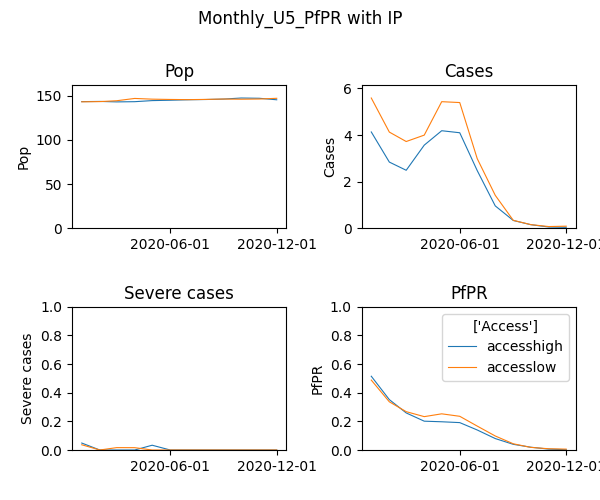
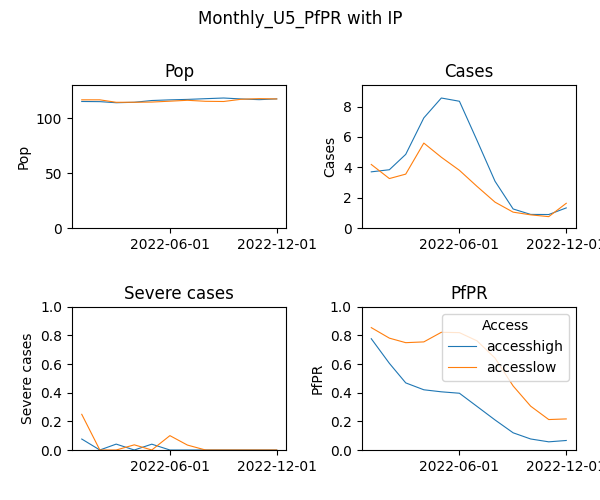
Week 8 readme and result figure updates

diff --git a/README.md b/README.md
@@ -1004,12 +1004,12 @@ EMOD How To's:
 
 ### Instructions
 
+#### PART I: Add IP's to demographics file
+
 <details><summary><span>Click here to expand</span></summary>
 <p>
 
-
-#### Add IP's to demographics
-- First, a new demographics file needs to be generated that defines individual properties.
+- A new demographics file needs to be generated that defines individual properties.
 - Modify  `python generate_input_files.py` as instructed below:
   - add a function that takes existing demographics json file and add individual properties to it
     in this example, we group individuals into a high and a low access group.
@@ -1050,24 +1050,44 @@ EMOD How To's:
     ```
 - Run `python generate_input_files.py` to generate the new demographics json file `Ghana_demographics_wIP.json`, and inspect the file to check whether the IP's were successfully added.
   - Optional, do the same for the Ghana demographics    
-  
-#### Modify the simulation scripts
-- Just having the IPs included in the demographics won't have any effect on the simulation if interventions or campaigns do not distinguish individuals by their properties!
-- Copy and rename both simulation scripts from the previous week, from week 7 to week 8, in addition a couple of modifications are required as instructed below:
-- __In both simulation scripts (burnin + pickup):__
+- Copy and rename both simulation scripts from week 7 to `run_exampleSim_w8a.py` and `run_exampleSim_w8b.py`
+- __In both simulation scripts:__
   - set `Disable_IP_Whitelist` to 1 (if not already set at 1)
     ```py
     cb.update_params({'Disable_IP_Whitelist' : 1})
     ```
-    _Reminder, you can look into the config.json file to see the default parameters and their values_
-  - update the demographics filename in `cb.update_params({
+  - Update the demographics filename in `cb.update_params({
     'Demographics_Filenames': [os.path.join('Namawala', 'Namawala_single_node_demographics.json')],` to read in `Namawala_single_node_demographics_wIP.json`
-  - Change exp_name to week 8 to keep track of simulations + weeks
-- __In burnin script__:
-  - No additional changes, you can already submit it to run 
+  - Change `exp_name` to week 8 to keep track of simulations + weeks
+- Submit burnin experiment to run
 
-#### Modify the intervention and intervention coverages 
-- __In pickup script__:
+<details><summary><span>Check results</span></summary>
+<p>
+
+
+The new demographics file should include the text chunk shown below:
+
+
+![img](static/w8_IP_demographics_chunk.png)
+
+
+</p>
+</details>
+
+
+</p>
+</details>
+
+
+
+#### PART II: Account for IP's in intervention and reports
+
+<details><summary><span>Click here to expand</span></summary>
+<p>
+
+_Note: Having the IPs included in the demographics won't have any effect on the simulation if interventions or campaigns do not distinguish individuals by their properties._
+
+- Modify the `run_exampleSim_w8b.py` script:
   - Add a helper function to re-calculate coverage depending on access group
   - Modify the interventions (i.e.add_ITN) to customize coverage levels for low versus high access groups.
     - duplicate the `add_ITN` within the def `itn_intervention` function
@@ -1118,75 +1138,75 @@ EMOD How To's:
     ```
     </p>
     </details>
-  - add case management (see Week 3 for adding interventions)  
-    <details><summary><span>view modified case_management function</span></summary>
-    <p>
+    - add case management (see Week 3 for adding interventions)  
+      <details><summary><span>view modified case_management function</span></summary>
+      <p>
     
-    ```py
-    def case_management(cb, cm_cov_U5=0.7, cm_cov_adults=0.5, cm_cov_severe=0.85):
-        ## Assume high access group = 0.5 of total population
-        if cm_cov_U5 > 0.5:
-            cm_cov_U5_high = 1
-            cm_cov_U5_low = (cm_cov_U5 - 0.5) / (1 - 0.5)
-        else:
-            cm_cov_U5_low = 0
-            cm_cov_U5_high = cm_cov_U5 / 0.5
-        ## Optionally, depending on assumptions, do same for cm_cov_adults and cm_cov_severe
+      ```py
+      def case_management(cb, cm_cov_U5=0.7, cm_cov_adults=0.5, cm_cov_severe=0.85):
+          ## Assume high access group = 0.5 of total population
+          if cm_cov_U5 > 0.5:
+              cm_cov_U5_high = 1
+              cm_cov_U5_low = (cm_cov_U5 - 0.5) / (1 - 0.5)
+          else:
+              cm_cov_U5_low = 0
+              cm_cov_U5_high = cm_cov_U5 / 0.5
+          ## Optionally, depending on assumptions, do same for cm_cov_adults and cm_cov_severe
     
-        add_health_seeking(cb, start_day=0,
-                           targets=[{'trigger': 'NewClinicalCase', 'coverage': cm_cov_U5_low,
-                                     'agemin': 0, 'agemax': 5, 'seek': 1, 'rate': 0.3},
-                                    {'trigger': 'NewClinicalCase', 'coverage': cm_cov_adults,
-                                     'agemin': 5, 'agemax': 100, 'seek': 1, 'rate': 0.3},
-                                    {'trigger': 'NewSevereCase', 'coverage': cm_cov_severe,
-                                     'agemin': 0, 'agemax': 100, 'seek': 1, 'rate': 0.5}],
-                           drug=['Artemether', 'Lumefantrine'])
+          add_health_seeking(cb, start_day=0,
+                             targets=[{'trigger': 'NewClinicalCase', 'coverage': cm_cov_U5_low,
+                                       'agemin': 0, 'agemax': 5, 'seek': 1, 'rate': 0.3},
+                                      {'trigger': 'NewClinicalCase', 'coverage': cm_cov_adults,
+                                       'agemin': 5, 'agemax': 100, 'seek': 1, 'rate': 0.3},
+                                      {'trigger': 'NewSevereCase', 'coverage': cm_cov_severe,
+                                       'agemin': 0, 'agemax': 100, 'seek': 1, 'rate': 0.5}],
+                             drug=['Artemether', 'Lumefantrine'])
     
-        add_health_seeking(cb, start_day=0,
-                           targets=[{'trigger': 'NewClinicalCase', 'coverage': cm_cov_U5_high,
-                                     'agemin': 0, 'agemax': 5, 'seek': 1, 'rate': 0.3},
-                                    {'trigger': 'NewClinicalCase', 'coverage': cm_cov_adults,
-                                     'agemin': 5, 'agemax': 100, 'seek': 1, 'rate': 0.3},
-                                    {'trigger': 'NewSevereCase', 'coverage': cm_cov_severe,
-                                     'agemin': 0, 'agemax': 100, 'seek': 1, 'rate': 0.5}],
-                           drug=['Artemether', 'Lumefantrine'])
+          add_health_seeking(cb, start_day=0,
+                             targets=[{'trigger': 'NewClinicalCase', 'coverage': cm_cov_U5_high,
+                                       'agemin': 0, 'agemax': 5, 'seek': 1, 'rate': 0.3},
+                                      {'trigger': 'NewClinicalCase', 'coverage': cm_cov_adults,
+                                       'agemin': 5, 'agemax': 100, 'seek': 1, 'rate': 0.3},
+                                      {'trigger': 'NewSevereCase', 'coverage': cm_cov_severe,
+                                       'agemin': 0, 'agemax': 100, 'seek': 1, 'rate': 0.5}],
+                             drug=['Artemether', 'Lumefantrine'])
     
-        return {'cm_cov_U5': cm_cov_U5,
-                'cm_cov_adults': cm_cov_adults,
-                'cm_cov_severe': cm_cov_severe}
-    ```
-    </p>
-    </details>  
-  - For simplicity, set all intervention coverage levels >0.5 (due to the assumotions on coverage access made in this example)
-  - Add additional reporters to be able to analyze results for both groups
-    ```py
-     "Report_Event_Recorder_Individual_Properties": ['Access']
-    ```
-    ```py
-     sim_start_year = 2000 + pull_year # for convenience to read simulation times
-     add_summary_report(cb, start=1+365*i, interval=30,
-                   duration_days=365,
-                   age_bins=[0.25, 5, 120],
-                   description=f'Monthly_U5_accesslow{sim_start_year+i}',
-                   ipfilter = 'Access:Low')
-     add_summary_report(cb, start=1+365*i, interval=30,
-               duration_days=365,
-               age_bins=[0.25, 5, 120],
-               description=f'Monthly_U5_accesshigh{sim_start_year+i}',
-               ipfilter = 'Access:High')  
-    ```
-     - _Note: once we made sure it is doing what it is supposed to do, 
-       keeping reporters per group might not always be needed, depending on the research question. 
-       In the EMOD How To example, StudyCohort is defined using IP's and in that case having reports for each study group is one of the reasons to use IP's_
-
-#### Run pickup simulation and analyzer
-- Once the burnin simulation finished, update exp_id in the pick-up simulation script and run the simulation
-- Run the analyzer script for Week 8 `analyze_exampleSim_w8.py` for the simulation that was just run
+          return {'cm_cov_U5': cm_cov_U5,
+                  'cm_cov_adults': cm_cov_adults,
+                  'cm_cov_severe': cm_cov_severe}
+      ```
+      </p>
+      </details>  
+    - For simplicity, set all intervention coverage levels >0.5 (due to the assumotions on coverage access made in this example)
+    - Add additional reporters to be able to analyze results for both groups
+      ```py
+       "Report_Event_Recorder_Individual_Properties": ['Access']
+      ```
+      ```py
+       sim_start_year = 2000 + pull_year # for convenience to read simulation times
+       add_summary_report(cb, start=1+365*i, interval=30,
+                     duration_days=365,
+                     age_bins=[0.25, 5, 120],
+                     description=f'Monthly_U5_accesslow{sim_start_year+i}',
+                     ipfilter = 'Access:Low')
+       add_summary_report(cb, start=1+365*i, interval=30,
+                 duration_days=365,
+                 age_bins=[0.25, 5, 120],
+                 description=f'Monthly_U5_accesshigh{sim_start_year+i}',
+                 ipfilter = 'Access:High')  
+      ```
+       - _Note: once we made sure it is doing what it is supposed to do, 
+         keeping reporters per group might not always be needed, depending on the research question. 
+         In the EMOD How To example, StudyCohort is defined using IP's and in that case having reports for each study group is one of the reasons to use IP's_
+    
+- Once the burnin simulation finished, update exp_id in `run_exampleSim_w8b.py`
+  - Update ModBuilder to have only single coverage levels for the interventions included in your simulation (otherwise result plots will look messy)
+- Run the pickup experiment (`run_exampleSim_w8b.py`)
+- Run the analyzer script for Week 8 `analyze_exampleSim_w8.py` 
 - Inspect results, the generated plots as well as IndividualEvents
 - Options for further exploration:
-  - Rerun the pickup simulation with different coverage levels
   - Rerun burnin + pickup simulation with different ratio between low and high access group
-- Think about what other individual properties would be useful and how these could be implemented
+- Think about what other individual properties would be useful and how these could be implemented.
 
 <details><summary><span>Check results</span></summary>
 <p>
